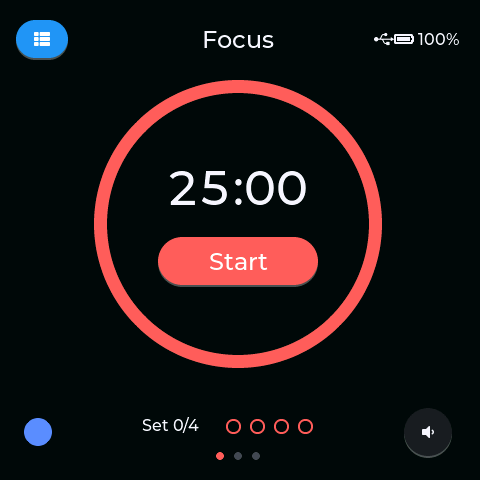
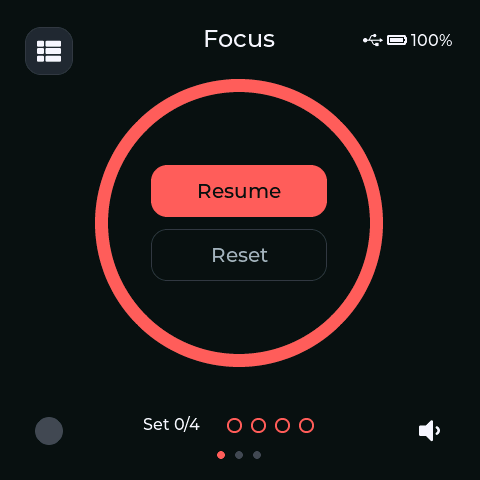
chore(docs): refresh README and UI screenshots

diff --git a/README.md b/README.md
@@ -1,127 +1,143 @@
 # Pomodoro
 
-Offline Pomodoro firmware for the Waveshare ESP32-C6-Touch-AMOLED-2.16.
+运行在 Waveshare ESP32-C6-Touch-AMOLED-2.16 上的离线番茄钟。
 
-![Pomodoro timer running on the ESP32 display](docs/esp32-screen.png)
+它不用联网。时间、设置、当前计时和统计都保存在设备中。固件在电脑上构建，通过 USB-C 烧录和调试。
 
-The repository currently contains an executable device slice of the product:
+![当前固件的 Focus 暂停界面](docs/esp32-screen.png)
 
-- a deterministic, host-testable timer and Pomodoro Set state machine;
-- an idempotent, versioned 365-day statistics store with RTC-invalid pending
-  results;
-- a CRC-checked atomic persistence payload for settings, timer, and statistics;
-- a dual-slot NVS journal that keeps the previous state recoverable across a
-  torn write;
-- an ESP-IDF 5.5.x application entry point (5.5.2 or newer, below 5.6);
-- a 480×480 LVGL Main timer with Focus, Short break, and Long break pages,
-  pause/resume/reset controls, completion transitions, and Set Progress;
-- non-wrapping touch gestures with confirmation before an active timer is
-  discarded;
-- configurable 1–60-second Pomodoro and fixed three-second break auto-start
-  transitions with Start now and Cancel auto-start controls;
-- persistence and hardware service boundaries for NVS, RTC, display, touch,
-  audio, and power implementations;
-- manual local date and time setup, used whenever the RTC has no valid time,
-  plus a single Settings `Date & time` entry;
-- default ESP32-C6 memory/flash configuration and a data-preserving partition
-  table;
-- native tests for completion, abort, pause/resume, all four Pomodoro Set
-  rounds, automation, and reboot recovery rules.
+上图由设备上的当前固件直接导出。真机使用 480×480 AMOLED 触摸屏，界面为英文。
 
-The product specification lives in [`docs/POMODORO_APP_PROMPT.md`](docs/POMODORO_APP_PROMPT.md).
-The successful ESP32-C6 serial communication check is recorded in
-[`docs/HARDWARE_CONNECTION_TEST.md`](docs/HARDWARE_CONNECTION_TEST.md).
+## 界面
 
-## Requirements
+下面的图片由当前固件在实机上绘制，再通过 USB 截图命令导出。Statistics 中的数字是截图用示例，不是用户数据。
 
-- ESP-IDF `>=5.5.2,<5.6` for firmware builds
-- CMake 3.16+ and a C11 compiler for native tests
+| Focus Ready | Focus Running | Focus Paused |
+| --- | --- | --- |
+| ![Focus Ready](docs/ui/focus-ready.png) | ![Focus Running](docs/ui/focus-running.png) | ![Focus Paused](docs/ui/focus-paused.png) |
 
-## Run native tests
+| Short break | Long break | Focus complete |
+| --- | --- | --- |
+| ![Short break](docs/ui/short-break.png) | ![Long break](docs/ui/long-break.png) | ![Focus complete](docs/ui/focus-complete.png) |
+
+| Menu | Statistics | Settings |
+| --- | --- | --- |
+| ![Menu](docs/ui/menu.png) | ![Statistics](docs/ui/statistics.png) | ![Settings](docs/ui/settings.png) |
+
+| Numeric Stepper | Date & time | Reset Dialog |
+| --- | --- | --- |
+| ![Numeric Stepper](docs/ui/numeric-stepper.png) | ![Date and time](docs/ui/date-time.png) | ![Reset Dialog](docs/ui/reset-dialog.png) |
+
+## 功能
+
+- Focus、Short break 和 Long break 三种计时。
+- 每四个 Pomodoro 组成一个 Pomodoro Set。
+- 显示今日完成数、专注时长和最近七天统计。
+- 保存最近 365 个 Statistics Day。
+- 断电后恢复运行中或暂停中的计时。
+- 手动设置本地日期和时间，不使用网络校时。
+- 支持触摸、滑动切换模式、声音、亮度和自动旋转。
+- 支持电池状态、低电量提示、自动调暗和熄屏。
+- 可通过 USB 显示当前 Codex Workspace 的 Agent Status。
+
+完整产品规则见 [docs/POMODORO_APP_PROMPT.md](docs/POMODORO_APP_PROMPT.md)。
+
+## 硬件
+
+| 项目 | 设备 |
+| --- | --- |
+| 开发板 | Waveshare ESP32-C6-Touch-AMOLED-2.16 |
+| 屏幕 | 480×480 SH8601 QSPI AMOLED |
+| 触摸 | CST9217 |
+| 实时时钟 | PCF85063，带后备电源 |
+| 姿态传感器 | QMI8658 |
+| 电源管理 | AXP2101 |
+| 音频 | ES8311 |
+| Flash | 16 MB |
+| 内存 | 512 KB HP SRAM，无 PSRAM |
+| 连接 | USB Serial/JTAG；固件不依赖 Wi-Fi |
+
+因为设备没有 PSRAM，界面只使用小型局部绘制缓冲，不使用完整帧缓冲。
+
+硬件连接记录见 [docs/HARDWARE_CONNECTION_TEST.md](docs/HARDWARE_CONNECTION_TEST.md)。
+
+## 使用设备
+
+- 点按 `Start` 开始计时。
+- 运行时可暂停；暂停后可继续或重置。
+- 左右滑动可切换 Focus、Short break 和 Long break。
+- 运行中切换模式前会要求确认，未完成的计时不会计入统计。
+- 左上角菜单可进入 Statistics 和 Settings。
+- 右下角按钮可静音或恢复声音。
+- `KEY/+` 和 `BOOT/-` 调节音量。
+- 短按 `PWR` 熄屏或唤醒，长按关机。
+
+只有自然完成的 Focus 才算一个 Pomodoro。完成四个 Pomodoro 后进入 Long break。
+
+## 开发环境
+
+- ESP-IDF `>=5.5.2,<5.6`
+- CMake 3.16 或更高版本
+- 支持 C11 的编译器
+
+先进入 ESP-IDF 5.5.x 环境：
+
+```sh
+. "$HOME/esp/esp-idf/export.sh"
+```
+
+## 运行测试
+
+原生测试不需要连接设备：
 
 ```sh
 cmake -S test -B build/host
-cmake --build build/host
+cmake --build build/host --parallel
 ctest --test-dir build/host --output-on-failure
 ```
 
-## Build firmware
-
-From an ESP-IDF 5.5.x shell (5.5.2 or newer, below 5.6):
+## 构建固件
 
 ```sh
 idf.py set-target esp32c6
 idf.py build
 ```
 
-## Flash firmware while Agent Status is running
+## 烧录固件
 
-The project USB port is shared between the Agent Status broker and firmware
-flashing. Use the supported wrapper instead of calling `idf.py flash` directly:
-
-1. Connect the device and confirm its serial port, such as
-   `/dev/cu.usbmodem11101`.
-2. From the repository root, load ESP-IDF and run the wrapper:
-
-   ```sh
-   . "$HOME/esp/esp-idf/export.sh"
-   tools/flash.sh -p /dev/cu.usbmodem11101
-   ```
-
-3. Wait for `Hash of data verified` and `Hard resetting via RTS pin`. The
-   wrapper then removes its reservation and Agent Status reconnects
-   automatically.
-
-The wrapper writes `pomodoro/agent-status/flash-reservation` in
-`$XDG_STATE_HOME` (or `~/.local/state` if unset) (containing its PID) before
-opening the port, waits up to `POMODORO_FLASH_RELEASE_TIMEOUT_S` (default 8 s)
-for the Agent Status broker to release the serial link, runs `idf.py flash`,
-and always removes the reservation on success, failure, interruption, or
-timeout. It never sends stop or termination signals to the broker. The port can
-also be given via `POMODORO_PORT` or auto-detected when exactly one
-`/dev/cu.usbmodem*` exists.
-
-If release times out, close another serial owner such as `idf.py monitor` and
-retry the same wrapper command. Do not use `erase-flash`; it deletes saved
-product state.
-
-## Agent Status
-
-`$pomodoro-select` starts the dependency-free broker on demand when no broker
-socket is listening. That automatic instance exits and releases the serial
-port after ten seconds without a valid Agent `report`. To keep a broker
-running independently, start the foreground entry point:
+先连接设备并找到串口：
 
 ```sh
-node tools/pomodoro-agent-status-broker.mjs
+ls /dev/cu.usbmodem*
 ```
 
-The broker is the only Agent Status serial owner. It keeps selection and
-revision under `$XDG_STATE_HOME/pomodoro/agent-status` (default
-`~/.local/state/pomodoro/agent-status`). The foreground entry remains
-running until interrupted; neither mode installs a LaunchAgent or PID file.
-
-On the device, the default-on `Waiting sound` setting plays the short embedded
-`warning` sound effect
-when the effective aggregate Agent Status enters Waiting or regains it after
-sync or reconnection. It obeys the global Sound volume, does not replay
-heartbeats or an already-yellow state, and never takes priority over timer
-completion audio. Focus and Break completion both use the embedded `rest`
-sound effect.
-
-Before first using this Codex-only version, stop any broker from an older
-development build and manually remove its obsolete state directory. The new
-runtime deliberately does not inspect, migrate, or delete it:
+使用仓库提供的脚本烧录：
 
 ```sh
-rm -rf -- "${XDG_STATE_HOME:-$HOME/.local/state}/opencode/pomodoro-status"
+tools/flash.sh -p /dev/cu.usbmodem11101
 ```
 
-### Install the Codex Workspace adapter
+`tools/flash.sh` 会让 Agent Status broker 暂时释放 USB 串口，烧录结束后自动恢复。串口名称可能不同，也可以通过 `POMODORO_PORT` 指定。
 
-The source of truth is [`plugins/pomodoro-agent-status`](plugins/pomodoro-agent-status).
-Create the personal marketplace entry with the Codex `plugin-creator` helper,
-copy this directory to `~/plugins/pomodoro-agent-status`, then install it:
+不要运行 `erase-flash`。它会删除 Settings、当前计时和 Statistics。
+
+## 导出 UI 截图
+
+固件提供只读截图命令。先关闭占用串口的 monitor 或 Agent Status broker，再在 ESP-IDF 环境中运行：
+
+```sh
+python tools/export_screenshot.py \
+  /dev/cu.usbmodem11101 \
+  docs/esp32-screen.png
+```
+
+脚本会把设备当前显示缓冲保存为 480×480 PNG，不会修改设备状态。
+
+## Agent Status（可选）
+
+设备可以在主界面左下角显示所选 Codex Workspace 的状态：Error、Waiting、Working、Completed 或 Idle。状态通过 USB 发送，不会控制或修改 Pomodoro 计时。
+
+插件源码位于 [plugins/pomodoro-agent-status](plugins/pomodoro-agent-status)。安装方法：
 
 ```sh
 python3 ~/.codex/skills/.system/plugin-creator/scripts/create_basic_plugin.py \
@@ -130,23 +146,35 @@ ditto plugins/pomodoro-agent-status "$HOME/plugins/pomodoro-agent-status"
 codex plugin add pomodoro-agent-status@personal
 ```
 
-Open a new thread, run `/hooks`, and review and trust the plugin hooks. Restart
-Codex Desktop before Desktop acceptance. Run `$pomodoro-select` in a Codex
-thread to select its Codex Workspace. Chats and subagents opened anywhere
-inside the same Git repository share one Agent Source; non-Git directories are
-grouped by their resolved working directory.
+打开新的 Codex thread，运行 `/hooks` 并信任插件 hooks，然后重启 Codex Desktop。在需要显示状态的 thread 中运行：
 
-For updates, copy the repository directory again, run
-`update_plugin_cachebuster.py` from the `plugin-creator` skill against the
-installed copy, reinstall from the personal marketplace, and test in a new
-thread. Do not edit the installed copy independently.
+```text
+$pomodoro-select
+```
 
-Codex hooks and their trust flow are documented in the
-[official hooks documentation](https://learn.chatgpt.com/docs/hooks). The
-selection command is a skill because
-[custom prompts are deprecated](https://learn.chatgpt.com/docs/custom-prompts).
+这会选择当前 Codex Workspace，并在需要时启动 broker。也可以手动以前台方式运行 broker：
 
-The target integration uses the interfaces declared in
-`components/pomodoro_platform/include/pomodoro_platform.h` with exact,
-Waveshare-validated LVGL 9, `esp_lvgl_port`, display, and touch component
-versions recorded in `main/idf_component.yml` and `dependencies.lock`.
+```sh
+node tools/pomodoro-agent-status-broker.mjs
+```
+
+如果安装过旧开发版，请先停止旧 broker，再删除旧状态目录。新版不会迁移这份数据：
+
+```sh
+rm -rf -- "${XDG_STATE_HOME:-$HOME/.local/state}/opencode/pomodoro-status"
+```
+
+## 目录
+
+| 路径 | 内容 |
+| --- | --- |
+| `components/pomodoro_core` | 计时、Pomodoro Set、统计和持久化格式 |
+| `components/pomodoro_app` | 应用状态和页面行为 |
+| `components/pomodoro_platform` | 屏幕、触摸、RTC、音频、电源和 NVS |
+| `main` | ESP-IDF 程序入口和依赖 |
+| `test` | 主机端自动化测试 |
+| `tools` | 烧录、截图和 Agent Status 工具 |
+| `plugins/pomodoro-agent-status` | Codex Agent Status 插件源码 |
+| `docs` | 产品说明、硬件记录和 ADR |
+
+领域术语见 [CONTEXT.md](CONTEXT.md)，架构决定见 [docs/adr](docs/adr)。
